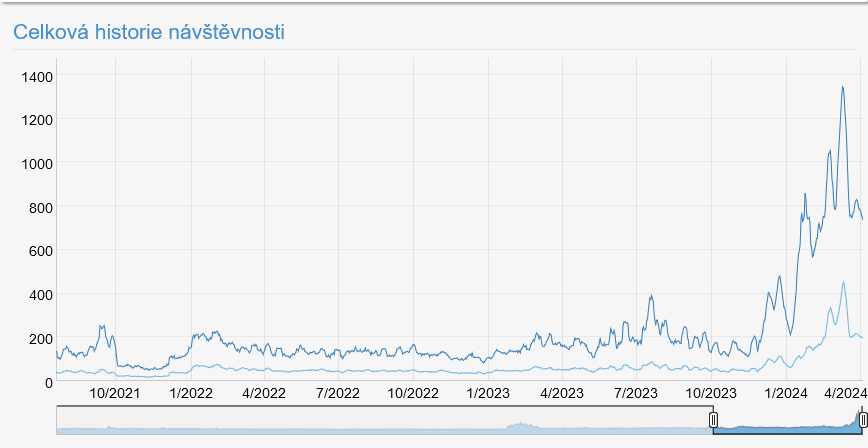
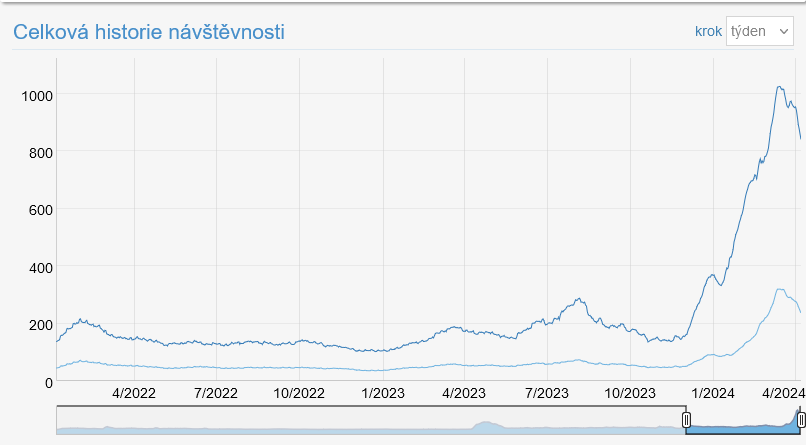
statistiky doplnění

diff --git a/content/napoveda/dokumentace/statistiky.md b/content/napoveda/dokumentace/statistiky.md
@@ -41,7 +41,7 @@ V pravé je možnost zvolit statistiky za delší období (týden, měsíc, rok)
 
 {{< image src="/img/statistics/all-stats.png" wrapper="col-10 mx-auto mb-5" >}}
 
-První statistikou je celkový přehled návštěvnosti ([počet návštěv a zhlédnutí](/napoveda/dokumentace/metodika-mereni/#jake-hodnoty-se-meri)) za celou dobu od registrace. Zobrazený je plovoucí týdenní průměr, který není ovlivněn rozdílem návštěvností během pracovních dní a víkendu.
+První statistikou je celkový přehled návštěvnosti ([počet návštěv a zhlédnutí](/napoveda/dokumentace/metodika-mereni/#jake-hodnoty-se-meri)) za celou dobu od registrace. Standardně je zobrazený plovoucí týdenní průměr, který není ovlivněn rozdílem návštěvností během pracovních dní a víkendu. V menu "krok" jde změnit na počet za 1 den, týden a 30 dní.
 
 ### Záznam
 
@@ -60,14 +60,39 @@ Informace, které jsou zobrazeny:
 
 ### návštěvnost
 
-* návštěvy
-* zhlédnutí
-* země
-* hodinová návštěvnost
-* návštěvnost podle dne v týdnu
-* návštěvy - domény
-* návštěvy - TLD
-* reporty Profi
+Statistiky umožňují dva nebo tři typu zobrazení. To je přepíná pomocí ikon v pravém horním rohu bloku:
+![Graf|Pie|Tabulka](/img/statistics/graph-change.png)
+
+Např. v případě zemí původu lze přepínat mezi zobrazením:
+
+{{< image src="/img/statistics/graph-trend.png" wrapper="col-8 mx-auto" >}}
+{{< image src="/img/statistics/graph-pie.png" wrapper="col-8 mx-auto" >}}
+{{< image src="/img/statistics/table.png" wrapper="col-8 mx-auto" >}}
+
+
+#### návštěvy
+{{< image src="/img/statistics/visits.png" wrapper="col-10 mx-auto mb-5" >}}
+
+#### zhlédnutí
+{{< image src="/img/statistics/pageviews.png" wrapper="col-10 mx-auto mb-5" >}}
+
+#### země
+{{< image src="/img/statistics/country.png" wrapper="col-10 mx-auto mb-5" >}}
+
+#### hodinová návštěvnost
+{{< image src="/img/statistics/hour.png" wrapper="col-10 mx-auto mb-5" >}}
+
+#### návštěvnost podle dne v týdnu
+{{< image src="/img/statistics/weekday.png" wrapper="col-10 mx-auto mb-5" >}}
+
+#### návštěvy - domény
+{{< image src="/img/statistics/domain.png" wrapper="col-10 mx-auto mb-5" >}}
+
+#### návštěvy - TLD
+{{< image src="/img/statistics/tld.png" wrapper="col-10 mx-auto mb-5" >}}
+
+#### reporty Profi
+{{< image src="/img/statistics/profi.png" wrapper="col-10 mx-auto mb-5" >}}
 
 ### zařízení
 
